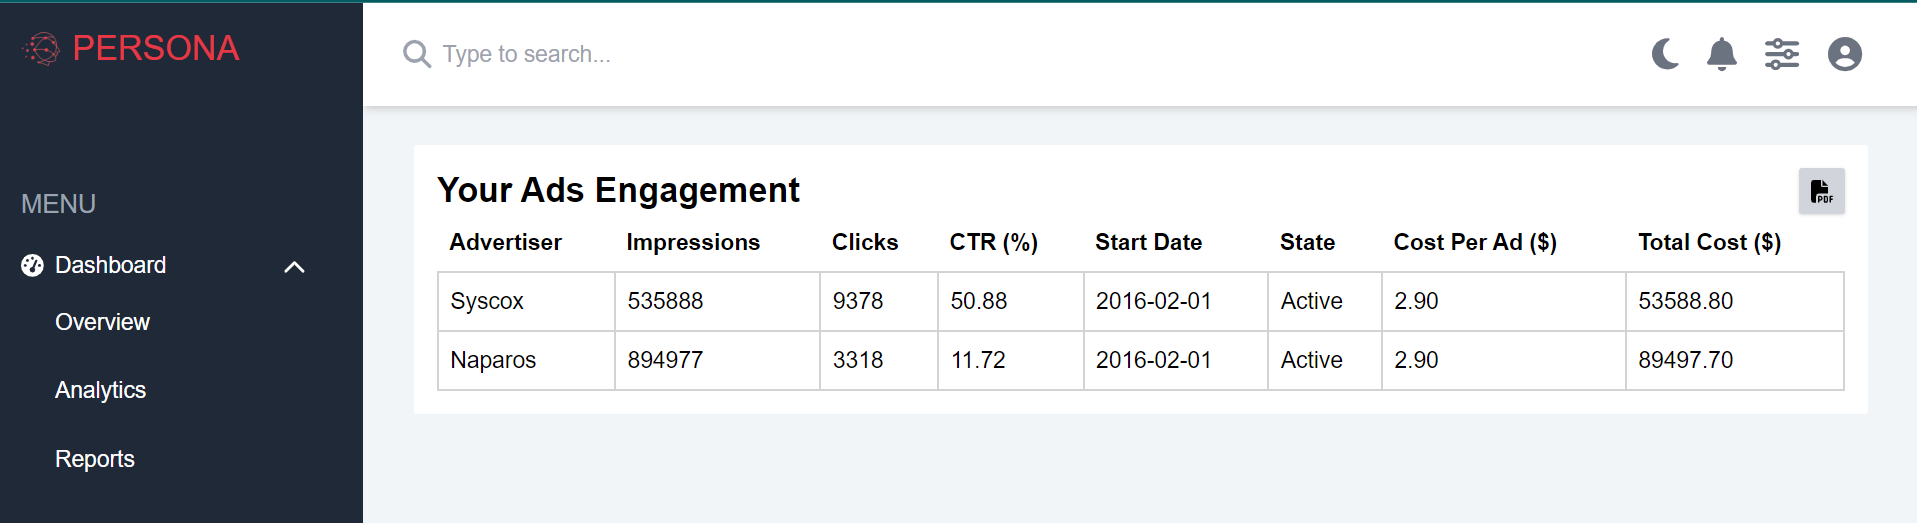
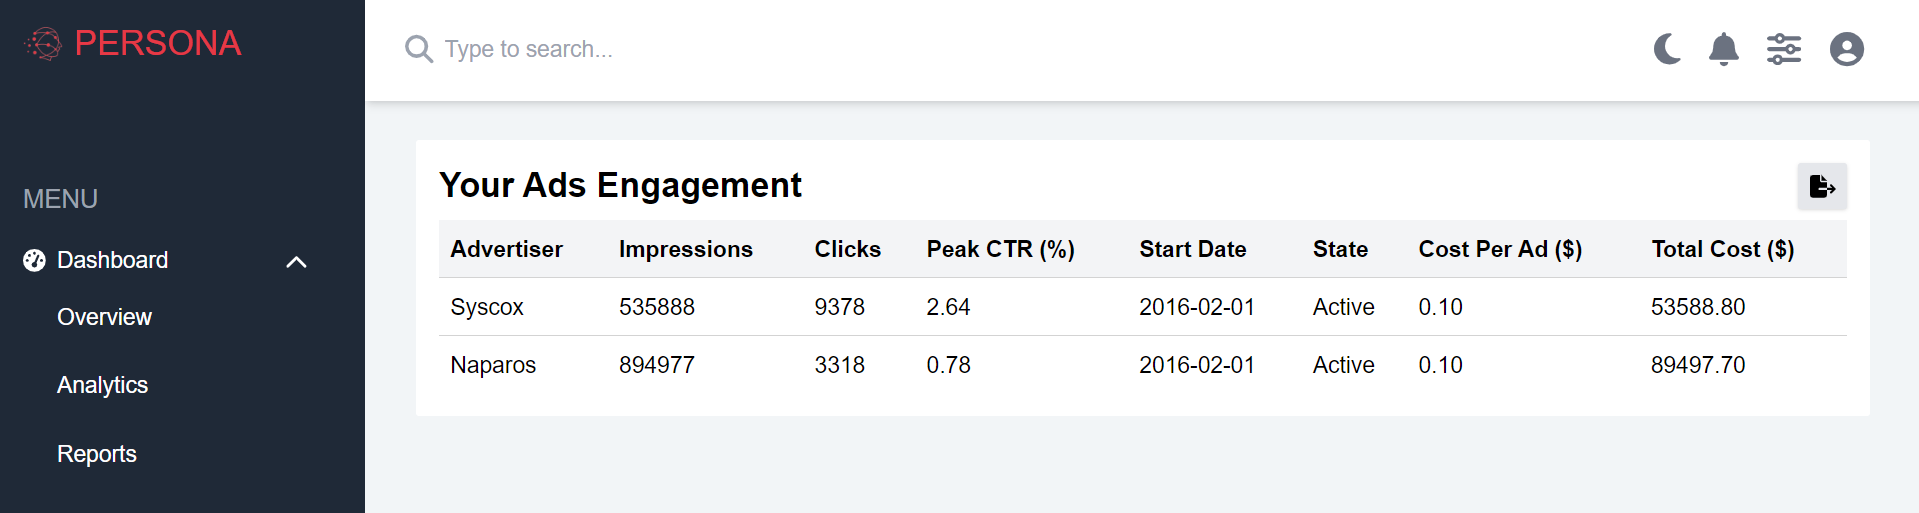
refactor code

diff --git a/src/util/CsvProcessor.js b/src/util/CsvProcessor.js
@@ -116,7 +116,6 @@ export const processEngagementData = (csvData = []) => {
         maxCtr,
         engagementData[advertiser].maxCtr
       );
-      engagementData[advertiser].costPerAd += costPerAd;
       engagementData[advertiser].totalCost += totalCost;
     } else {
       engagementData[advertiser] = {
@@ -126,7 +125,7 @@ export const processEngagementData = (csvData = []) => {
         costPerAd,
         totalCost,
         startDate,
-        state: "Active",
+        status: "Active",
       };
     }
   });

diff --git a/src/components/reporting/EngagementReporter.js b/src/components/reporting/EngagementReporter.js
@@ -21,7 +21,7 @@ const EngagementReport = () => {
     "Clicks",
     "Peak CTR (%)",
     "Start Date",
-    "State",
+    "Status",
     "Cost Per Ad ($)",
     "Total Cost ($)",
   ];
@@ -33,7 +33,7 @@ const EngagementReport = () => {
     "clicks",
     "maxCtr",
     "startDate",
-    "state",
+    "status",
     "costPerAd",
     "totalCost",
   ];
